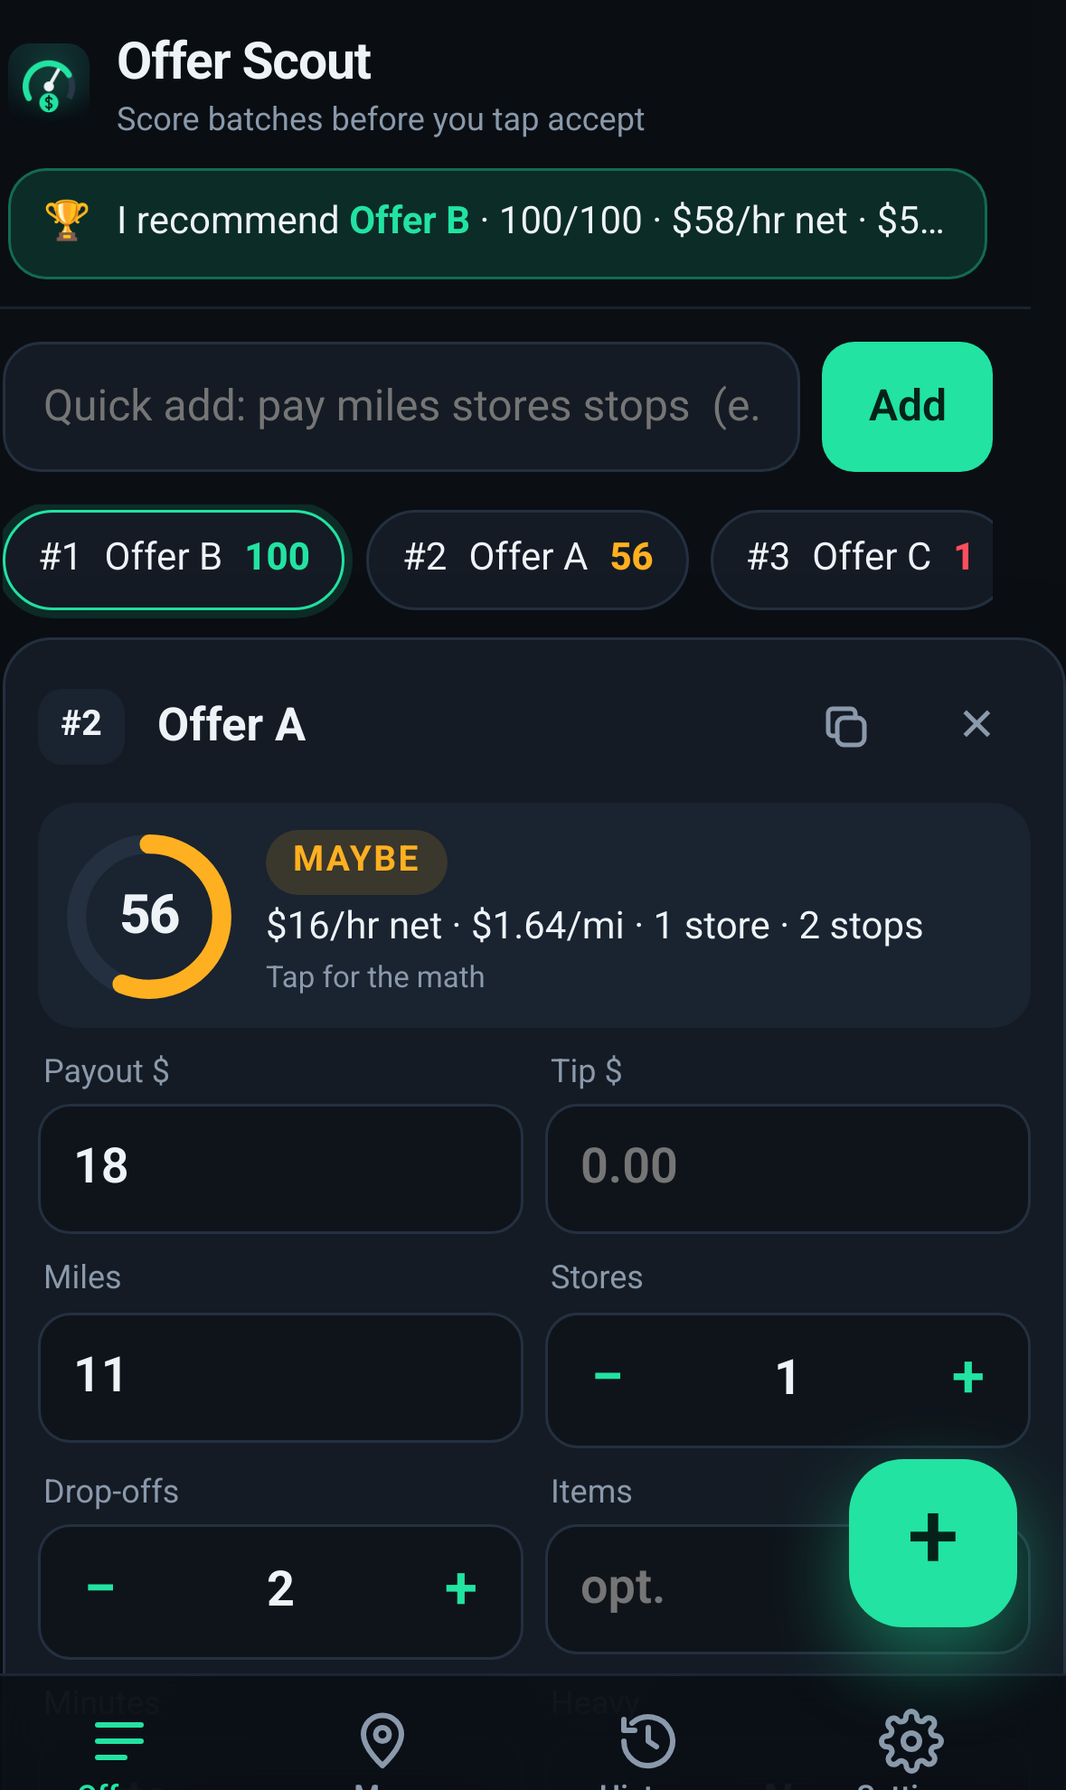
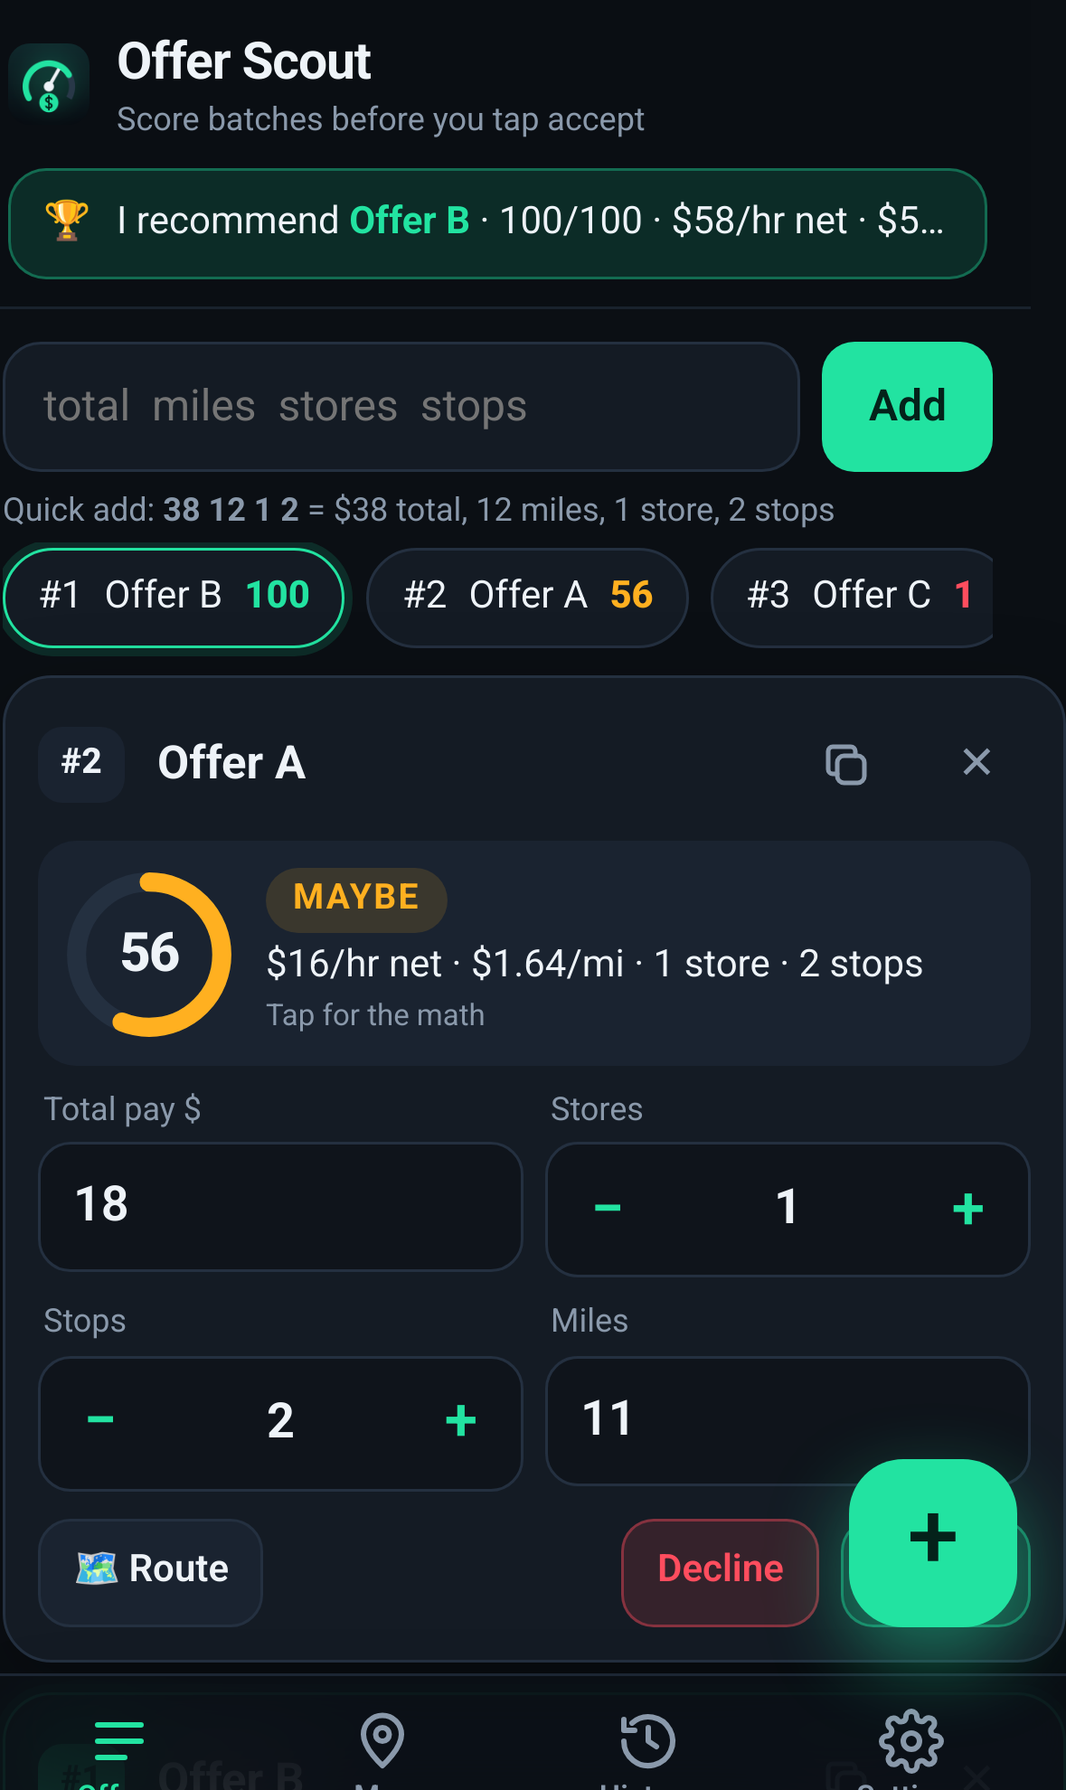
Simplify to four inputs: Total pay, Stores, Stops, Miles
- Remove tip, items, minutes and heavy-items fields from the UI, scoring, math breakdown and settings
- Time estimate = drive (routed or miles/25 mph) + 20 min/store + 5 min/stop
- Remove heavy penalty and per-item/heavy settings
- Migrate saved data: fold old tip into total, drop removed fields and settings
- Quick add hint: 38 12 1 2 = total, miles, stores, stops
- Bump service worker cache to v1.1.0
- Update unit tests (17) and iPhone e2e (28 checks, incl. migration); refresh screenshots

diff --git a/app.js b/app.js
@@ -1,4 +1,4 @@
-import { scoreOffer, rankOffers, DEFAULTS } from './score.js';
+import { scoreOffer, rankOffers, DEFAULTS, migrateOffer, migrateSettings } from './score.js';
 
 /* ---------- tiny helpers ---------- */
 const $ = (s, el = document) => el.querySelector(s);
@@ -27,15 +27,16 @@ function toast(msg, action) {
 }
 
 /* ---------- state ---------- */
-let settings = { ...DEFAULTS, ...store.get('settings', {}) };
+let settings = { ...DEFAULTS, ...migrateSettings(store.get('settings', {})) };
 let offers = store.get('offers', null);
+if (Array.isArray(offers)) { offers = offers.map(migrateOffer); store.set('offers', offers); store.set('settings', settings); }
 let history = store.get('history', []);
 let lastLoc = store.get('loc', null);
 const blankRoute = () => ({ me: null, stores: [], stops: [] });
 function newOffer(p = {}) {
   const used = new Set(offers.map((o) => o.name));
   let i = 0, name; do { name = 'Offer ' + (i < 26 ? String.fromCharCode(65 + i) : i + 1); i++; } while (used.has(name));
-  return { id: uid(), name, pay: '', tip: '', miles: '', stores: 1, stops: 1, items: '', minutes: '', heavy: false, driveMin: 0, route: blankRoute(), ...p };
+  return { id: uid(), name, pay: '', miles: '', stores: 1, stops: 1, driveMin: 0, route: blankRoute(), ...p };
 }
 if (!Array.isArray(offers)) { offers = []; offers.push(newOffer()); }
 
@@ -47,7 +48,7 @@ function cardFor(o) {
   const el = tpl.content.firstElementChild.cloneNode(true);
   el.dataset.id = o.id;
   $('.o-name', el).value = o.name;
-  $$('[data-k]', el).forEach((inp) => { const k = inp.dataset.k; if (inp.type === 'checkbox') inp.checked = !!o[k]; else inp.value = o[k] ?? ''; });
+  $$('[data-k]', el).forEach((inp) => { inp.value = o[inp.dataset.k] ?? ''; });
   $('[data-o=stores]', el).textContent = o.stores;
   $('[data-o=stops]', el).textContent = o.stops;
   return el;
@@ -109,20 +110,18 @@ function animateNum(el, to) {
 function mathHTML(r) {
   const s = settings, row = (a, b, cls = '') => `<tr class="${cls}"><td>${a}</td><td>${b}</td></tr>`;
   return `<table>
-  ${row('Payout + tip', money(r.pay))}
+  ${row('Total pay', money(r.pay))}
   ${row(`Mileage cost (${fmt1(r.miles)} mi × ${money(s.costPerMile)})`, `<span class="neg">−${money(r.cost)}</span>`)}
   ${row('<b>Net earnings</b>', `<b>${money(r.net)}</b>`, 'sep')}
-  ${r.usedUserMinutes ? row('Time (your estimate)', r.minutes.toFixed(0) + ' min', 'sep') : row(r.routedDrive ? 'Drive (routed)' : `Drive (${fmt1(r.miles)} mi ÷ ${s.avgMph} mph)`, r.driveMin.toFixed(0) + ' min', 'sep')}
-  ${r.usedUserMinutes ? '' : row(`Shopping (${r.stores}×${s.shopMinPerStore}${r.items ? ` + ${r.items}×${s.shopMinPerItem}` : ''})`, r.shopMin.toFixed(0) + ' min')}
-  ${r.usedUserMinutes ? '' : row(`Drop-offs (${r.stops}×${s.minPerStop})`, r.stopMin.toFixed(0) + ' min')}
-  ${r.extraMin && !r.usedUserMinutes ? row('Heavy items', r.extraMin + ' min') : ''}
-  ${row('<b>Total time</b>', `<b>${r.minutes.toFixed(0)} min</b>`)}
+  ${row(r.routedDrive ? 'Drive (routed)' : `Drive (${fmt1(r.miles)} mi ÷ ${s.avgMph} mph)`, r.driveMin.toFixed(0) + ' min', 'sep')}
+  ${row(`Stores (${r.stores}×${s.shopMinPerStore})`, r.shopMin.toFixed(0) + ' min')}
+  ${row(`Stops (${r.stops}×${s.minPerStop})`, r.stopMin.toFixed(0) + ' min')}
+  ${row('<b>Estimated time</b>', `<b>${r.minutes.toFixed(0)} min</b>`)}
   ${row(`Net $/hr vs $${s.targetHourly} target`, `$${r.hourly.toFixed(2)} → ${r.hrPts.toFixed(0)} pts`, 'sep')}
-  ${row(`Gross $/mi vs $${s.targetPerMile} target`, `${Number.isFinite(r.perMile) ? '$' + r.perMile.toFixed(2) : '∞'} → ${r.miPts.toFixed(0)} pts`)}
+  ${row(`$/mi vs $${s.targetPerMile} target`, `${Number.isFinite(r.perMile) ? '$' + r.perMile.toFixed(2) : '∞'} → ${r.miPts.toFixed(0)} pts`)}
   ${row(`Blend ${Math.round(s.weightHourly * 100)}% / ${Math.round((1 - s.weightHourly) * 100)}%`, r.base.toFixed(1))}
   ${r.penStores ? row(`Extra stores (${r.stores - 1}×${s.storePenalty})`, `<span class="neg">−${r.penStores}</span>`) : ''}
-  ${r.penStops ? row(`Drop-offs past 2 (${r.stops - 2}×${s.stopPenalty})`, `<span class="neg">−${r.penStops}</span>`) : ''}
-  ${r.penHeavy ? row('Heavy items', `<span class="neg">−${r.penHeavy}</span>`) : ''}
+  ${r.penStops ? row(`Stops past 2 (${r.stops - 2}×${s.stopPenalty})`, `<span class="neg">−${r.penStops}</span>`) : ''}
   ${row('<b>Score</b>', `<b>${r.score}/100 · ${r.verdict}</b>`, 'sep')}
   </table><p class="fine">Accept ≥ ${s.acceptAt}, Maybe ≥ ${s.maybeAt}. Edit any of this in Settings.</p>`;
 }
@@ -144,8 +143,7 @@ listEl.addEventListener('input', (e) => {
   const o = offers.find((x) => x.id === card.dataset.id); if (!o) return;
   if (e.target.classList.contains('o-name')) { o.name = e.target.value || 'Offer'; saveSoon(); updateScores(); return; }
   const k = e.target.dataset.k; if (!k) return;
-  if (e.target.type === 'checkbox') { o[k] = e.target.checked; haptic(); }
-  else { o[k] = e.target.value.replace(',', '.'); if (k === 'miles') o.driveMin = 0; }
+  o[k] = e.target.value.replace(',', '.'); if (k === 'miles') o.driveMin = 0;
   saveSoon(); updateScores();
 });
 
@@ -231,9 +229,9 @@ $('#clearHist').addEventListener('click', () => { if (history.length && confirm(
 /* ---------- settings ---------- */
 const SCHEMA = [
   ['Costs', [['costPerMile', 'Cost per mile $', 'Gas + wear. Real cost ≈ $0.20–0.35; IRS rate $0.70', 0.01, [['Real $0.30', 0.30], ['IRS $0.70', 0.70]]], ['avgMph', 'Average speed (mph)', 'Used when no route is calculated', 1]]],
-  ['Time', [['shopMinPerStore', 'Minutes per store', 'Walk, shop, checkout', 1], ['shopMinPerItem', 'Minutes per item', 'Added per item/unit', 0.1], ['minPerStop', 'Minutes per drop-off', 'Park, hand off, photo', 1], ['heavyMinutes', 'Heavy items extra (min)', '', 1]]],
+  ['Time', [['shopMinPerStore', 'Minutes per store', 'Walk, shop, checkout', 1], ['minPerStop', 'Minutes per stop', 'Park, hand off, photo', 1]]],
   ['Targets', [['targetHourly', 'Target net $/hr', '', 1], ['targetPerMile', 'Target gross $/mile', 'Classic rule: $2/mi', 0.1], ['weightHourly', '$/hr weight (0–1)', 'Rest goes to $/mile', 0.05]]],
-  ['Penalties (points)', [['storePenalty', 'Per extra store', '', 1], ['stopPenalty', 'Per drop-off past 2', '', 1], ['heavyPenalty', 'Heavy items', '', 1]]],
+  ['Penalties (points)', [['storePenalty', 'Per extra store', '', 1], ['stopPenalty', 'Per stop past 2', '', 1]]],
   ['Verdict', [['acceptAt', 'Accept at score ≥', '', 1], ['maybeAt', 'Maybe at score ≥', 'Below this: decline', 1]]],
 ];
 function renderSettings() {
@@ -290,7 +288,7 @@ $('.seg').addEventListener('click', (e) => { const b = e.target.closest('[data-m
 function addPoint(kind, lat, lng, label) {
   const o = curOffer(); o.route ||= blankRoute();
   const list = kind === 'store' ? o.route.stores : o.route.stops;
-  list.push({ lat, lng, label: label || `${kind === 'store' ? 'Store' : 'Drop-off'} ${list.length + 1}` });
+  list.push({ lat, lng, label: label || `${kind === 'store' ? 'Store' : 'Stop'} ${list.length + 1}` });
   saveSoon(); haptic(); drawPoints();
 }
 
@@ -355,7 +353,7 @@ $('#geoForm').addEventListener('submit', async (e) => {
     out.replaceChildren();
     if (!res.length) { out.innerHTML = '<div class="fine">No matches. Try adding the city.</div>'; return; }
     for (const r of res) {
-      const d = document.createElement('div'); d.className = 'geo-item'; d.innerHTML = '<span></span><button class="btn small">Store</button><button class="btn small">Drop-off</button>';
+      const d = document.createElement('div'); d.className = 'geo-item'; d.innerHTML = '<span></span><button class="btn small">Store</button><button class="btn small">Stop</button>';
       d.firstChild.textContent = r.display_name;
       const short = r.display_name.split(',').slice(0, 2).join(',');
       d.children[1].onclick = () => { addPoint('store', +r.lat, +r.lon, short); out.replaceChildren(); drawPoints(true); };
@@ -368,7 +366,7 @@ $('#geoForm').addEventListener('submit', async (e) => {
 $('#routeBtn').addEventListener('click', async () => {
   const o = curOffer(); const rt = o.route ||= blankRoute();
   const pts = [rt.me, ...rt.stores, ...rt.stops].filter(Boolean);
-  if (pts.length < 2) { toast('Add at least 2 points (you, a store, a drop-off)'); return; }
+  if (pts.length < 2) { toast('Add at least 2 points (you, a store, a stop)'); return; }
   const b = $('#routeBtn'); b.disabled = true; b.textContent = 'Routing…';
   try {
     const coords = pts.map((p) => `${p.lng.toFixed(6)},${p.lat.toFixed(6)}`).join(';');

diff --git a/score.js b/score.js
@@ -1,19 +1,17 @@
 // Offer Scout scoring model. Pure functions, no DOM. Shared by the app and node tests.
+// Inputs per offer: total pay (offer + tip combined), miles, stores, stops.
 export const DEFAULTS = Object.freeze({
   costPerMile: 0.30,     // your real out-of-pocket per mile (gas + wear). IRS 2025 rate is 0.70.
-  avgMph: 25,            // average driving speed when no route is computed
-  shopMinPerStore: 20,   // base shopping/checkout minutes per store
-  shopMinPerItem: 0.6,   // extra minutes per item/unit
-  minPerStop: 5,         // park, hand off, photo, per drop-off
-  heavyMinutes: 5,       // extra minutes for heavy items (cases of water, etc.)
+  avgMph: 25,            // average driving speed when no route is calculated
+  shopMinPerStore: 20,   // shopping/checkout minutes per store
+  minPerStop: 5,         // park, hand off, photo, per stop
   targetHourly: 25,      // your net $/hr goal
   targetPerMile: 2,      // your gross $/mi goal (the classic "$2 a mile" rule)
   weightHourly: 0.6,     // share of the score from $/hr
   storePenalty: 4,       // points off per store beyond the first
-  stopPenalty: 3,        // points off per drop-off beyond the second
-  heavyPenalty: 3,       // points off for heavy items
-  acceptAt: 70,          // score >= this → ACCEPT
-  maybeAt: 50,           // score >= this → MAYBE, else DECLINE
+  stopPenalty: 3,        // points off per stop beyond the second
+  acceptAt: 70,          // score >= this -> ACCEPT
+  maybeAt: 50,           // score >= this -> MAYBE, else DECLINE
 });
 
 const num = (v, d = 0) => { const n = typeof v === 'string' ? parseFloat(v) : v; return Number.isFinite(n) ? n : d; };
@@ -21,22 +19,36 @@ const clamp = (v, lo, hi) => Math.min(hi, Math.max(lo, v));
 // A ratio vs target maps to 0..100, with exactly-on-target = 80 and 125%+ of target = 100.
 export const ratioPoints = (r) => 100 * clamp(r, 0, 1.25) / 1.25;
 
+// Saved data from v1 had separate tip, items, minutes and heavy fields. Fold tip into total; drop the rest.
+export function migrateOffer(o) {
+  if (!o || typeof o !== 'object') return o;
+  const out = { ...o };
+  if ('tip' in out) {
+    const pay = num(out.pay), tip = num(out.tip);
+    if (tip) out.pay = String(Math.round((pay + tip) * 100) / 100);
+    delete out.tip;
+  }
+  delete out.items; delete out.minutes; delete out.heavy;
+  return out;
+}
+export function migrateSettings(saved) {
+  const out = {};
+  for (const k of Object.keys(DEFAULTS)) if (saved && Number.isFinite(saved[k])) out[k] = saved[k];
+  return out;
+}
+
 export function scoreOffer(offer, settings = {}) {
   const s = { ...DEFAULTS, ...settings };
-  const pay = num(offer.pay) + num(offer.tip);
+  const pay = num(offer.pay);
   const miles = Math.max(0, num(offer.miles));
   const stores = Math.max(1, Math.round(num(offer.stores, 1)));
   const stops = Math.max(1, Math.round(num(offer.stops, 1)));
-  const items = Math.max(0, num(offer.items));
-  const heavy = !!offer.heavy;
 
-  const driveMin = num(offer.driveMin) > 0 ? num(offer.driveMin) : (miles / Math.max(1, s.avgMph)) * 60;
-  const shopMin = stores * s.shopMinPerStore + items * s.shopMinPerItem;
+  const routedDrive = num(offer.driveMin) > 0;
+  const driveMin = routedDrive ? num(offer.driveMin) : (miles / Math.max(1, s.avgMph)) * 60;
+  const shopMin = stores * s.shopMinPerStore;
   const stopMin = stops * s.minPerStop;
-  const extraMin = heavy ? s.heavyMinutes : 0;
-  const estMin = driveMin + shopMin + stopMin + extraMin;
-  const userMin = num(offer.minutes) > 0 ? num(offer.minutes) : 0;
-  const minutes = Math.max(1, userMin || estMin);
+  const minutes = Math.max(1, driveMin + shopMin + stopMin);
 
   const cost = miles * s.costPerMile;
   const net = pay - cost;
@@ -51,20 +63,18 @@ export function scoreOffer(offer, settings = {}) {
   const base = w * hrPts + (1 - w) * miPts;
   const penStores = Math.max(0, stores - 1) * s.storePenalty;
   const penStops = Math.max(0, stops - 2) * s.stopPenalty;
-  const penHeavy = heavy ? s.heavyPenalty : 0;
-  const penalty = penStores + penStops + penHeavy;
+  const penalty = penStores + penStops;
   let score = Math.round(clamp(base - penalty, 0, 100));
   if (pay <= 0 || net <= 0) score = 0;
 
   const verdict = score >= s.acceptAt ? 'ACCEPT' : score >= s.maybeAt ? 'MAYBE' : 'DECLINE';
-  const reason = pay <= 0 ? 'Enter a payout to score this offer'
+  const reason = pay <= 0 ? 'Enter your total pay to score this offer'
     : `$${Math.round(hourly)}/hr net · ${Number.isFinite(perMile) ? '$' + perMile.toFixed(2) : '∞'}/mi · ${stores} store${stores > 1 ? 's' : ''} · ${stops} stop${stops > 1 ? 's' : ''}`;
 
   return {
-    pay, miles, stores, stops, items, heavy, cost, net, minutes,
-    usedUserMinutes: !!userMin, routedDrive: num(offer.driveMin) > 0, driveMin, shopMin, stopMin, extraMin, estMin,
+    pay, miles, stores, stops, cost, net, minutes, routedDrive, driveMin, shopMin, stopMin,
     hourly, perMile, hrRatio, miRatio, hrPts, miPts, base,
-    penStores, penStops, penHeavy, penalty, score, verdict, reason,
+    penStores, penStops, penalty, score, verdict, reason,
   };
 }
 

diff --git a/index.html b/index.html
@@ -33,9 +33,10 @@
     <!-- OFFERS -->
     <section id="view-offers" class="view active" aria-label="Offers">
       <form id="quick" class="quick" autocomplete="off">
-        <input id="quickInput" inputmode="decimal" enterkeyhint="go" placeholder="Quick add: pay miles stores stops  (e.g. 38 12 1 2)" aria-label="Quick add offer">
+        <input id="quickInput" inputmode="decimal" enterkeyhint="go" placeholder="total  miles  stores  stops" aria-label="Quick add offer: total, miles, stores, stops">
         <button type="submit" class="btn primary" aria-label="Add">Add</button>
       </form>
+      <p class="fine quick-hint">Quick add: <b>38 12 1 2</b> = $38 total, 12 miles, 1 store, 2 stops</p>
       <div id="ranking" class="ranking" aria-live="polite"></div>
       <div id="offers" class="offers"></div>
       <div id="empty" class="empty" hidden>
@@ -51,7 +52,7 @@
         <label class="sel">Route for <select id="mapOffer"></select></label>
         <div class="seg" role="group" aria-label="Tap mode">
           <button data-mode="store" class="seg-btn active">+ Store</button>
-          <button data-mode="stop" class="seg-btn">+ Drop-off</button>
+          <button data-mode="stop" class="seg-btn">+ Stop</button>
         </div>
       </div>
       <div id="map" class="map"><div class="map-loading">Loading map…</div></div>
@@ -86,9 +87,9 @@
       </div>
       <div class="howto card">
         <h3>How the score works</h3>
-        <p><b>Net</b> = payout + tip − miles × cost per mile.</p>
-        <p><b>Time</b> = drive (route time, or miles ÷ avg mph) + minutes per store + minutes per item + minutes per drop-off (+ heavy extra). Your own minutes override this.</p>
-        <p><b>Score</b> = 60% from net $/hr vs your target + 40% from gross $/mile vs your target. Hitting a target is worth 80 points, 125% of it is worth 100. Minus points for each extra store and each drop-off past two.</p>
+        <p><b>Net</b> = total pay − miles × cost per mile.</p>
+        <p><b>Time</b> = drive (route time, or miles ÷ avg mph) + minutes per store + minutes per stop.</p>
+        <p><b>Score</b> = 60% from net $/hr vs your target + 40% from gross $/mile vs your target. Hitting a target is worth 80 points, 125% of it is worth 100. Minus points for each extra store and each stop past two.</p>
         <p><b>Accept</b> at 70+, <b>Maybe</b> at 50–69, <b>Decline</b> below 50.</p>
         <p class="fine">Offer Scout is not affiliated with Instacart. Everything stays on this phone.</p>
       </div>
@@ -124,14 +125,10 @@
     </button>
     <div class="math" hidden></div>
     <div class="fields">
-      <label class="f"><span>Payout $</span><input data-k="pay" inputmode="decimal" enterkeyhint="next" placeholder="0.00"></label>
-      <label class="f"><span>Tip $</span><input data-k="tip" inputmode="decimal" enterkeyhint="next" placeholder="0.00"></label>
-      <label class="f"><span>Miles</span><input data-k="miles" inputmode="decimal" enterkeyhint="next" placeholder="0.0"></label>
+      <label class="f"><span>Total pay $</span><input data-k="pay" inputmode="decimal" enterkeyhint="next" placeholder="offer + tip"></label>
       <div class="f step"><span>Stores</span><div class="stepper"><button data-step="stores:-1" aria-label="Fewer stores">−</button><output data-o="stores">1</output><button data-step="stores:1" aria-label="More stores">+</button></div></div>
-      <div class="f step"><span>Drop-offs</span><div class="stepper"><button data-step="stops:-1" aria-label="Fewer drop-offs">−</button><output data-o="stops">1</output><button data-step="stops:1" aria-label="More drop-offs">+</button></div></div>
-      <label class="f"><span>Items</span><input data-k="items" inputmode="numeric" enterkeyhint="next" placeholder="opt."></label>
-      <label class="f"><span>Minutes</span><input data-k="minutes" inputmode="numeric" enterkeyhint="done" placeholder="auto"></label>
-      <label class="f toggle"><span>Heavy</span><input type="checkbox" data-k="heavy"><i></i></label>
+      <div class="f step"><span>Stops</span><div class="stepper"><button data-step="stops:-1" aria-label="Fewer stops">−</button><output data-o="stops">1</output><button data-step="stops:1" aria-label="More stops">+</button></div></div>
+      <label class="f"><span>Miles</span><input data-k="miles" inputmode="decimal" enterkeyhint="done" placeholder="0.0"></label>
     </div>
     <div class="o-foot">
       <button class="btn small" data-act="route">🗺 Route</button>

diff --git a/styles.css b/styles.css
@@ -44,7 +44,8 @@ main{padding:12px calc(14px + var(--sar)) calc(var(--tabh) + 96px + var(--sab)) 
 .btn.bad{background:var(--bad-bg);color:var(--bad);border-color:color-mix(in srgb,var(--bad) 40%,transparent)}
 .btn:disabled{opacity:.5}
 
-.quick{display:flex;gap:8px;margin-bottom:12px}
+.quick{display:flex;gap:8px;margin-bottom:6px}
+.quick-hint{margin:0 4px 12px}
 .quick input{flex:1;min-width:0;min-height:48px;padding:0 14px;border-radius:14px;border:1px solid var(--line);background:var(--card);font-size:16px}
 input:focus,select:focus{outline:2px solid color-mix(in srgb,var(--accent) 60%,transparent);outline-offset:1px}
 

diff --git a/sw.js b/sw.js
@@ -1,5 +1,5 @@
 // Offer Scout service worker: offline app shell + capped map-tile cache. APIs (routing/geocoding) are network-only.
-const VERSION = 'v1.0.2';
+const VERSION = 'v1.1.0';
 const SHELL = `shell-${VERSION}`, TILES = 'tiles-v1', MAX_TILES = 400;
 const ASSETS = ['./', 'index.html', 'styles.css', 'app.js', 'score.js', 'manifest.webmanifest',
   'icons/icon-192.png', 'icons/icon-512.png', 'icons/apple-touch-icon.png',

diff --git a/README.md b/README.md
@@ -5,22 +5,22 @@ A fast, installable iPhone web app (PWA) that scores Instacart shopper batch off
 **Install on iPhone:** open the site in Safari, tap Share, then **Add to Home Screen**. It runs full screen and works offline. Routing and address search need a connection.
 
 ## Features
-- Several offers side by side: add, duplicate, delete, quick add (`38 12 1 2` = pay, miles, stores, drop-offs)
+- Four inputs per offer (Total pay, Stores, Stops, Miles). Several offers side by side: add, duplicate, delete, quick add (`38 12 1 2` = total, miles, stores, stops)
 - Live score ring, verdict, one-line reason, live ranking with the best offer highlighted, and the full math on tap
-- Map (Leaflet + OpenStreetMap): use my location, search addresses (Nominatim), tap to drop store and drop-off pins, drag pins, and get driving miles and minutes from the public OSRM router, filled into the offer automatically
+- Map (Leaflet + OpenStreetMap): use my location, search addresses (Nominatim), tap to drop store and stop pins, drag pins, and get driving miles and minutes from the public OSRM router, filled into the offer automatically
 - History of accepted and declined offers with stats (avg net $/hr, net earned, $/mile)
 - Every threshold is editable in Settings. Everything is stored on the phone in localStorage. No accounts, no backend.
 
 ## Scoring model (`score.js`)
 | Step | Formula (defaults) |
 |---|---|
-| Payout | offer + tip |
-| Net | payout − miles × **$0.30**/mi (IRS preset $0.70) |
-| Time | drive (route minutes, or miles ÷ **25 mph**) + stores × **20 min** + items × **0.6 min** + drop-offs × **5 min** (+ **5 min** heavy). Minutes you type override all of this. |
+| Inputs | **Total pay** (offer + tip together), stores, stops, miles |
+| Net | total − miles × **$0.30**/mi (IRS preset $0.70) |
+| Time | drive (route minutes, or miles ÷ **25 mph**) + stores × **20 min** + stops × **5 min** |
 | Net $/hr | net ÷ hours |
-| $/mile | payout ÷ miles (gross, the classic "$2/mile" rule) |
+| $/mile | total ÷ miles (gross, the classic "$2/mile" rule) |
 | Points | each ratio vs target (**$25/hr**, **$2/mi**) → 0–100: on target = 80, ≥125% = 100 |
-| Score | 60% × $/hr points + 40% × $/mi points − 4 per extra store − 3 per drop-off past 2 − 3 heavy, clamped 0–100. Net ≤ 0 scores 0. |
+| Score | 60% × $/hr points + 40% × $/mi points − 4 per extra store − 3 per stop past 2, clamped 0–100. Net ≤ 0 scores 0. |
 | Verdict | ≥ 70 ACCEPT · 50–69 MAYBE · < 50 DECLINE |
 
 ## Dev
